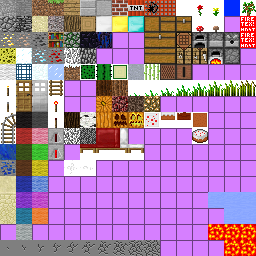
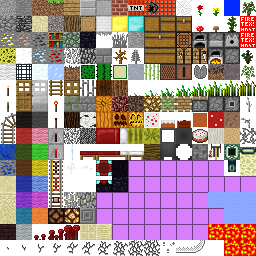
git-svn-id: http://bukkit-modders.googlecode.com/svn/trunk@109 1f310c20-8ed5-36b7-f2d5-c597b292fe4b

diff --git a/bukkitmodders-copycat/src/main/java/org/bukkitmodders/copycat/services/TextureToBlockMapper.java b/bukkitmodders-copycat/src/main/java/org/bukkitmodders/copycat/services/TextureToBlockMapper.java
@@ -16,7 +16,43 @@ import org.bukkitmodders.copycat.schema.BlockProfileType;
 
 public class TextureToBlockMapper {
 
-	private enum TextureMappedBlock {
+	public static Hashtable<Integer, TextureMappedBlock> SUPPORTED_BLOCKS = new Hashtable<Integer, TextureMappedBlock>();
+	private Map<Integer, TextureMappedBlock> supportedBlocks = new HashMap<Integer, TextureMappedBlock>();
+
+	static {
+
+		for (TextureMappedBlock block : TextureMappedBlock.values()) {
+			SUPPORTED_BLOCKS.put(block.getTile(), block);
+		}
+	}
+
+	public TextureToBlockMapper(BlockProfileType blockProfile) {
+		for (org.bukkitmodders.copycat.schema.BlockProfileType.Block block : blockProfile.getBlock()) {
+
+			int tileNumber = block.getTextureIndex();
+
+			if (SUPPORTED_BLOCKS.containsKey(tileNumber)) {
+				supportedBlocks.put(tileNumber, SUPPORTED_BLOCKS.get(tileNumber));
+			} else {
+				throw new RuntimeException("Tile " + tileNumber + " is not a supported block.");
+			}
+		}
+	}
+
+	public Set<Integer> getSupportedTiles() {
+		return supportedBlocks.keySet();
+	}
+	
+	public static void setBlockMaterialToTile(int tile, Block block) {
+
+		if (SUPPORTED_BLOCKS.containsKey(tile)) {
+			SUPPORTED_BLOCKS.get(tile).setBlock(block);
+		} else {
+			throw new RuntimeException("Cannot map texture tile to a block. " + tile);
+		}
+	}
+
+	public enum TextureMappedBlock {
 
 		NETHERACK(103, Material.NETHERRACK, (byte) 0),
 		DIRT(2, Material.DIRT, (byte) 0),
@@ -41,6 +77,10 @@ public class TextureToBlockMapper {
 		GOLD_ORE(32, Material.GOLD_ORE, (byte) 0),
 		REDSTONE_ORE(51, Material.REDSTONE_ORE, (byte) 0),
 		COBBLESTONE(16, Material.COBBLESTONE, (byte) 0),
+
+		ENDER_STONE(175, Material.ENDER_STONE, (byte) 0),
+		SPONGE(48, Material.SPONGE, (byte) 0),
+		NETHER_BRICK(224, Material.NETHER_BRICK, (byte) 0),
 
 		WOOL_WHITE(64, Material.WOOL, DyeColor.WHITE.getData()),
 		WOOL_BLACK(113, Material.WOOL, DyeColor.BLACK.getData()),
@@ -81,78 +121,10 @@ public class TextureToBlockMapper {
 		public int getTile() {
 			return tile;
 		}
-	}
 
-	private static Hashtable<Integer, TextureMappedBlock> SUPPORTED_BLOCKS = new Hashtable<Integer, TextureMappedBlock>();
-
-	static {
-		SUPPORTED_BLOCKS.put(TextureMappedBlock.NETHERACK.getTile(), TextureMappedBlock.NETHERACK);
-		SUPPORTED_BLOCKS.put(TextureMappedBlock.DIRT.getTile(), TextureMappedBlock.DIRT);
-		SUPPORTED_BLOCKS.put(TextureMappedBlock.STONE.getTile(), TextureMappedBlock.STONE);
-		SUPPORTED_BLOCKS.put(TextureMappedBlock.SANDSTONE.getTile(), TextureMappedBlock.SANDSTONE);
-		SUPPORTED_BLOCKS.put(TextureMappedBlock.BRICK.getTile(), TextureMappedBlock.BRICK);
-		SUPPORTED_BLOCKS.put(TextureMappedBlock.SNOW_BLOCK.getTile(), TextureMappedBlock.SNOW_BLOCK);
-		SUPPORTED_BLOCKS.put(TextureMappedBlock.CLAY.getTile(), TextureMappedBlock.CLAY);
-		SUPPORTED_BLOCKS.put(TextureMappedBlock.WOOD_PLANK.getTile(), TextureMappedBlock.WOOD_PLANK);
-		SUPPORTED_BLOCKS.put(TextureMappedBlock.IRON_BLOCK.getTile(), TextureMappedBlock.IRON_BLOCK);
-		SUPPORTED_BLOCKS.put(TextureMappedBlock.GOLD_BLOCK.getTile(), TextureMappedBlock.GOLD_BLOCK);
-		SUPPORTED_BLOCKS.put(TextureMappedBlock.DIAMOND_BLOCK.getTile(), TextureMappedBlock.DIAMOND_BLOCK);
-		SUPPORTED_BLOCKS.put(TextureMappedBlock.GLOWSTONE.getTile(), TextureMappedBlock.GLOWSTONE);
-		SUPPORTED_BLOCKS.put(TextureMappedBlock.LAPIS_LAZULI_BLOCK.getTile(), TextureMappedBlock.LAPIS_LAZULI_BLOCK);
-		SUPPORTED_BLOCKS.put(TextureMappedBlock.LAPIS_LAZULI_ORE.getTile(), TextureMappedBlock.LAPIS_LAZULI_ORE);
-		SUPPORTED_BLOCKS.put(TextureMappedBlock.OBSIDIAN.getTile(), TextureMappedBlock.OBSIDIAN);
-		SUPPORTED_BLOCKS.put(TextureMappedBlock.NOTE_BLOCK.getTile(), TextureMappedBlock.NOTE_BLOCK);
-		SUPPORTED_BLOCKS.put(TextureMappedBlock.MOSSY_COBBLESTONE.getTile(), TextureMappedBlock.MOSSY_COBBLESTONE);
-		SUPPORTED_BLOCKS.put(TextureMappedBlock.IRON_ORE.getTile(), TextureMappedBlock.IRON_ORE);
-		SUPPORTED_BLOCKS.put(TextureMappedBlock.COAL_ORE.getTile(), TextureMappedBlock.COAL_ORE);
-		SUPPORTED_BLOCKS.put(TextureMappedBlock.DIAMOND_ORE.getTile(), TextureMappedBlock.DIAMOND_ORE);
-		SUPPORTED_BLOCKS.put(TextureMappedBlock.GOLD_ORE.getTile(), TextureMappedBlock.GOLD_ORE);
-		SUPPORTED_BLOCKS.put(TextureMappedBlock.REDSTONE_ORE.getTile(), TextureMappedBlock.REDSTONE_ORE);
-		SUPPORTED_BLOCKS.put(TextureMappedBlock.COBBLESTONE.getTile(), TextureMappedBlock.COBBLESTONE);
-
-		SUPPORTED_BLOCKS.put(TextureMappedBlock.WOOL_WHITE.getTile(), TextureMappedBlock.WOOL_WHITE);
-		SUPPORTED_BLOCKS.put(TextureMappedBlock.WOOL_BLACK.getTile(), TextureMappedBlock.WOOL_BLACK);
-		SUPPORTED_BLOCKS.put(TextureMappedBlock.WOOL_GRAY.getTile(), TextureMappedBlock.WOOL_GRAY);
-		SUPPORTED_BLOCKS.put(TextureMappedBlock.WOOL_RED.getTile(), TextureMappedBlock.WOOL_RED);
-		SUPPORTED_BLOCKS.put(TextureMappedBlock.WOOL_PINK.getTile(), TextureMappedBlock.WOOL_PINK);
-		SUPPORTED_BLOCKS.put(TextureMappedBlock.WOOL_GREEN.getTile(), TextureMappedBlock.WOOL_GREEN);
-		SUPPORTED_BLOCKS.put(TextureMappedBlock.WOOL_LIGHT_GREEN.getTile(), TextureMappedBlock.WOOL_LIGHT_GREEN);
-		SUPPORTED_BLOCKS.put(TextureMappedBlock.WOOL_BROWN.getTile(), TextureMappedBlock.WOOL_BROWN);
-		SUPPORTED_BLOCKS.put(TextureMappedBlock.WOOL_YELLOW.getTile(), TextureMappedBlock.WOOL_YELLOW);
-		SUPPORTED_BLOCKS.put(TextureMappedBlock.WOOL_BLUE.getTile(), TextureMappedBlock.WOOL_BLUE);
-		SUPPORTED_BLOCKS.put(TextureMappedBlock.WOOL_LIGHT_BLUE.getTile(), TextureMappedBlock.WOOL_LIGHT_BLUE);
-		SUPPORTED_BLOCKS.put(TextureMappedBlock.WOOL_PURPLE.getTile(), TextureMappedBlock.WOOL_PURPLE);
-		SUPPORTED_BLOCKS.put(TextureMappedBlock.WOOL_LIGHT_PURPLE.getTile(), TextureMappedBlock.WOOL_LIGHT_PURPLE);
-		SUPPORTED_BLOCKS.put(TextureMappedBlock.WOOL_CYAN.getTile(), TextureMappedBlock.WOOL_CYAN);
-		SUPPORTED_BLOCKS.put(TextureMappedBlock.WOOL_ORANGE.getTile(), TextureMappedBlock.WOOL_ORANGE);
-		SUPPORTED_BLOCKS.put(TextureMappedBlock.WOOL_LIGHT_GRAY.getTile(), TextureMappedBlock.WOOL_LIGHT_GRAY);
-	}
-
-	private Map<Integer, TextureMappedBlock> supportedBlocks = new HashMap<Integer, TextureMappedBlock>();
-
-	public TextureToBlockMapper(BlockProfileType blockProfile) {
-		for (org.bukkitmodders.copycat.schema.BlockProfileType.Block block : blockProfile.getBlock()) {
-
-			int tileNumber = block.getTextureIndex();
-
-			if (SUPPORTED_BLOCKS.containsKey(tileNumber)) {
-				supportedBlocks.put(tileNumber, SUPPORTED_BLOCKS.get(tileNumber));
-			} else {
-				throw new RuntimeException("Tile " + tileNumber + " is not a supported block.");
-			}
+		public String getMaterialName() {
+			return material.name();
 		}
 	}
 
-	public Set<Integer> getSupportedTiles() {
-		return supportedBlocks.keySet();
-	}
-
-	public static void setBlockMaterialToTile(int tile, Block block) {
-
-		if (SUPPORTED_BLOCKS.containsKey(tile)) {
-			SUPPORTED_BLOCKS.get(tile).setBlock(block);
-		} else {
-			throw new RuntimeException("Cannot map texture tile to a block. " + tile);
-		}
-	}
 }

diff --git a/bukkitmodders-copycat/src/test/java/McGraphics2dTest.java b/bukkitmodders-copycat/src/test/java/McGraphics2dTest.java
@@ -14,9 +14,12 @@ import junit.framework.Assert;
 import org.bukkit.Location;
 import org.bukkitmodders.copycat.Settings;
 import org.bukkitmodders.copycat.schema.BlockProfileType;
+import org.bukkitmodders.copycat.schema.BlockProfileType.Block;
 import org.bukkitmodders.copycat.schema.PluginConfig;
 import org.bukkitmodders.copycat.services.ImageCopier;
 import org.bukkitmodders.copycat.services.TextureMapProcessor;
+import org.bukkitmodders.copycat.services.TextureToBlockMapper;
+import org.bukkitmodders.copycat.services.TextureToBlockMapper.TextureMappedBlock;
 import org.bukkitmodders.copycat.util.ImageUtil;
 import org.junit.Test;
 import org.slf4j.Logger;
@@ -26,17 +29,30 @@ public class McGraphics2dTest {
 
 	private Logger log = LoggerFactory.getLogger(McGraphics2dTest.class);
 
-	public static BlockProfileType getDefaultBlockProfile() {
+	public static BlockProfileType getBlockProfile(String name) {
 
 		PluginConfig config = JAXB.unmarshal(McGraphics2dTest.class.getResourceAsStream(Settings.DEFAULT_SETTINGS_XML), PluginConfig.class);
-		return config.getGlobalSettings().getBlockProfiles().getBlockProfile().get(0);
+		for (BlockProfileType blockProfile : config.getGlobalSettings().getBlockProfiles().getBlockProfile()) {
+			if (blockProfile.getName().equalsIgnoreCase(name)) {
+				return blockProfile;
+			}
+		}
+
+		return null;
+	}
+
+	@Test
+	public void scaleImageTest() throws Exception {
+		BufferedImage image = ImageIO.read(getClass().getResourceAsStream("/PikachuTransparent.gif"));
+		Image scaledImage = ImageUtil.scaleImage(image, image.getWidth(), image.getHeight());
+		ImageIO.write((RenderedImage) scaledImage, "gif", new File("target/scaledTransparent.gif"));
 	}
 
 	@Test
 	public void TranslateTest01() {
 
 		Location location = new Location(null, 10, 10, 10);
-		ImageCopier mcGraphics2d = new ImageCopier(getDefaultBlockProfile(), location, null, null);
+		ImageCopier mcGraphics2d = new ImageCopier(getBlockProfile("default"), location, null, null);
 
 		Point3d point = new Point3d(1, 1, 0);
 
@@ -53,7 +69,7 @@ public class McGraphics2dTest {
 	public void TranslateTest02() {
 
 		Location location = new Location(null, 10, 10, 10);
-		ImageCopier mcGraphics2d = new ImageCopier(getDefaultBlockProfile(), location, null, null);
+		ImageCopier mcGraphics2d = new ImageCopier(getBlockProfile("default"), location, null, null);
 
 		Point3d point = new Point3d(10, 10, 0);
 
@@ -85,19 +101,26 @@ public class McGraphics2dTest {
 
 	@Test
 	public void nearestColorGeneratorTest() {
-		PluginConfig unmarshal = JAXB.unmarshal(getClass().getResource(Settings.DEFAULT_SETTINGS_XML), PluginConfig.class);
 
-		TextureMapProcessor tmp01 = new TextureMapProcessor(unmarshal.getGlobalSettings().getBlockProfiles().getBlockProfile().get(0));
-		new TextureMapProcessor(unmarshal.getGlobalSettings().getBlockProfiles().getBlockProfile().get(1));
-		new TextureMapProcessor(unmarshal.getGlobalSettings().getBlockProfiles().getBlockProfile().get(2));
-		
+		TextureMapProcessor tmp01 = new TextureMapProcessor(getBlockProfile("default"));
+		new TextureMapProcessor(getBlockProfile("earth"));
+		new TextureMapProcessor(getBlockProfile("wool"));
+
 		tmp01.getColorTable();
 	}
 
 	@Test
-	public void scaleImageTest() throws Exception {
-		BufferedImage image = ImageIO.read(getClass().getResourceAsStream("/PikachuTransparent.gif"));
-		Image scaledImage = ImageUtil.scaleImage(image, image.getWidth(), image.getHeight());
-		ImageIO.write((RenderedImage) scaledImage, "gif", new File("target/scaledTransparent.gif"));
+	public void textureMapTest() throws Exception {
+		BlockProfileType blockProfile = getBlockProfile("test");
+		TextureMapProcessor tmp = new TextureMapProcessor(blockProfile);
+
+		for (Block block : blockProfile.getBlock()) {
+			BufferedImage tileImage = tmp.getTile(block.getTextureIndex());
+
+			TextureMappedBlock textureMappedBlock = TextureToBlockMapper.SUPPORTED_BLOCKS.get(block.getTextureIndex());
+			String pathname = "target/" + block.getName() + "material-" + textureMappedBlock.getMaterialName()+".gif";
+			ImageIO.write((RenderedImage) tileImage, "gif", new File(pathname));
+		}
+
 	}
 }

diff --git a/bukkitmodders-copycat/src/main/java/org/bukkitmodders/copycat/Plugin.java b/bukkitmodders-copycat/src/main/java/org/bukkitmodders/copycat/Plugin.java
@@ -80,8 +80,7 @@ public class Plugin extends JavaPlugin {
 	public String getTriggerString() {
 		PluginDescriptionFile pdfFile = getDescription();
 
-		@SuppressWarnings("unchecked")
-		Map<String, Map<String, Object>> commands =pdfFile.getCommands();
+		Map<String, Map<String, Object>> commands = pdfFile.getCommands();
 
 		return commands.keySet().iterator().next().toString();
 	}

diff --git a/bukkitmodders-copycat/src/main/java/org/bukkitmodders/copycat/services/TextureMapProcessor.java b/bukkitmodders-copycat/src/main/java/org/bukkitmodders/copycat/services/TextureMapProcessor.java
@@ -95,7 +95,7 @@ public class TextureMapProcessor {
 		return new Color(r, g, b);
 	}
 
-	private BufferedImage getTile(int tileNumber) {
+	public BufferedImage getTile(int tileNumber) {
 
 		int row = tileNumber / rows;
 		int col = tileNumber % cols;
